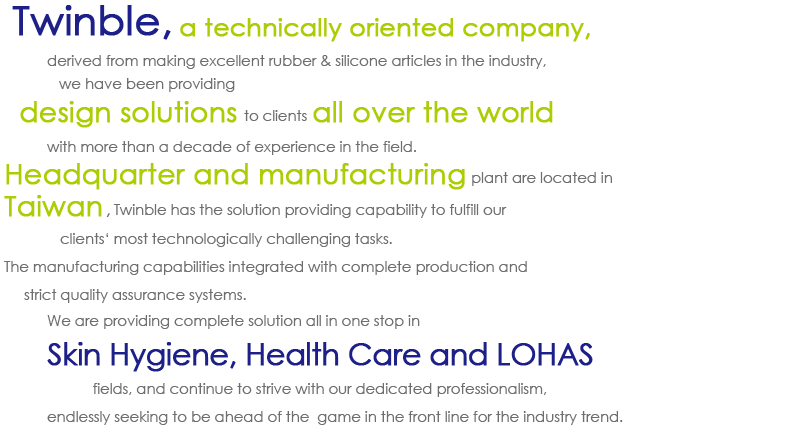
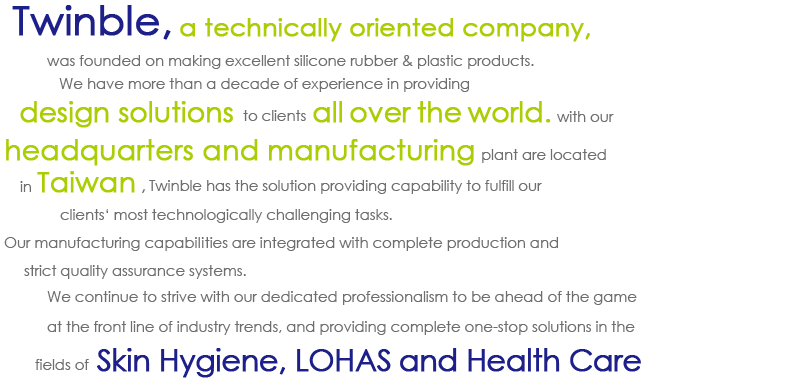
"about-us"和"why-twinble"頁面文案調整 #20180306

diff --git a/about-us.html b/about-us.html
@@ -2,6 +2,7 @@
 <html>
 <head>
 <meta charset="utf-8" lang="en">
+<meta http-equiv="Expires" content="-1">
 <!--<meta name="viewport" content="width=device-width, height=device-height, initial-scale=1.0, user-scalable=0, minimum-scale=1.0, maximum-scale=1.0">-->
 <meta name="description" content="Twinble, a technically oriented company, derived from making excellent & innovative rubber articles in the industry"/>
 <meta name="keywords" content="twinble,rubber,taiwan,skin,hygiene,health,rubber compression,injection molding, liquid injection"/>
@@ -107,9 +108,9 @@ j=d.createElement(s),dl=l!='dataLayer'?'&l='+l:'';j.async=true;j.src=
                     <br class="clean">
                     <div class="pic_about"></div>
                     <div class="text_about">
-                        <p><span class="profile-blue">Twinble</span>, <span class="profile-green">a technically oriented company</span>,  derived from making excellent rubber &amp; silicone articles in the industry, been providing <span class="profile-green">design solutions to clients all over the world</span> with more than a decade of experience in the field.</p>
-                        <p><span class="profile-green">Headquarter and manufacturing plant are located in Taiwan</span>, winble has the solution providing capability to fulfill our clients‘ most technologically challenging tasks. The manufacturing capabilities integrated with complete production and strict quality assurance systems.</p>
-                        <p>We are providing complete solution all in one stop in <span class="profile-blue">Skin Hygiene, Health Care and LOHAS</span> fields. We continue to strive with our dedicated professionalism, endlessly seeking to be ahead of the game in the front line for the industry trend.</p>
+                        <p><em>Twinble</em>, <em>a technically oriented company</em>,  was founded on making excellent silicone rubber &amp; plastic products. We have more than a decade of experience in providing <em>design solutions </em>to clients <em>all over the world.</em></p>
+                        <p>With our <em>headquarters and manufacturing</em> plant located in <em>Taiwan</em>, Twinble has the solution providing capability to fulfill our clients' most technologically challenging tasks. Our manufacturing capabilities are integrated with complete production and strict quality assurance systems. </p>
+                        <p>We continue to strive with our dedicated professionalism to be ahead of the game at the front line of industry trends, and providing complete one-stop solutions in the fields of <em>Skin Hygiene</em>, <em>LOHAS</em> and <em>Health Care.</em></p>
                     </div>
                     <img class="my-twinble" src="images/pic_twinble.png" alt="twinvle-man">
                 </section>

diff --git a/why-twinble.html b/why-twinble.html
@@ -104,9 +104,10 @@ j=d.createElement(s),dl=l!='dataLayer'?'&l='+l:'';j.async=true;j.src=
                     <br class="clean">
                     <div class="pic_whytwinble"></div>
                     <div class="text_about">
-                        <p>Customer satisfaction and fulfillment of their technological needs are achieved through series of interactions by our expertise on <span class="profile-blue">joint development</span> program. </p>
-                        <p><span class="profile-blue">All products 100% made in Taiwan</span>, the stable quality is controlled by the complete manufacturing solution in house.</p>
-                        <p>No matter what rubber <span class="profile-blue">compression and injection molding, liquid injection</span> s available for high precision silicone products in our technical portfolio. We are able to provide <span class="profile-blue">assembly service </span>to <span class="profile-green">add value the product performance</span> as well. Our designs evolve with innovations to continuously improve and create products value that the market yearns for.</p>
+                        <p>Customer satisfaction and fulfillment of technological needs are achieved through a series of interactions with our experts on <em>joint development</em> programs.</p>
+                        <p><em>All products are 100% made in Taiwan</em>, and consistent quality is controlled by the complete manufacturing solution in-house.</p>
+                        <p>No matter what type of rubber <em>compression</em> is desired, <em>injection molding</em> and <em>liquid injections</em> are available for high precision silicone rubber products in our technical portfolio.</p>
+                        <p>We are able to provide <em>assembly service</em> <em>to enhance the value of the products</em> as well. Our designs evolve with innovations to continuously improve and create products with value that the market yearns for. </p>    
                     </div>
                     <ul class="capability-item WOW fadeInUp-nodelay">
                         <li>

diff --git a/lohas.html b/lohas.html
@@ -2,8 +2,8 @@
 <html>
 <head>
 <meta charset="utf-8" lang="en">
-<!--<meta name="viewport" content="width=device-width, height=device-height, initial-scale=1.0, user-scalable=0, minimum-scale=1.0, maximum-scale=1.0">-->
 <meta http-equiv="Expires" content="-1">
+<!--<meta name="viewport" content="width=device-width, height=device-height, initial-scale=1.0, user-scalable=0, minimum-scale=1.0, maximum-scale=1.0">-->
 <meta name="description" content="Twinble, a technically oriented company, derived from making excellent & innovative rubber articles in the industry"/>
 <meta name="keywords" content="twinble,rubber,taiwan,skin,hygiene,health,rubber compression,injection molding, liquid injection"/>
 <meta name="Author" content="Twinble International Enterprise corp." />

diff --git a/css/xuedesign_201605.css b/css/xuedesign_201605.css
@@ -411,7 +411,7 @@ header,
 .pic_about{
     display: block;
     width: 100%;
-    height: 439px;
+    height: 391px;/*439px*/
     background: url(../images/pic_who-we-are.png) no-repeat;
     margin-top: 30px}
 .text_about{
@@ -420,7 +420,7 @@ header,
 .pic_whytwinble{
     display: block;
     width: 100%;
-    height: 400px;
+    height: 387px;/*400px*/
     background: url(../images/pic_whytwinble.png) no-repeat;
     background-position: 35px 0;
     margin-top: 30px}
@@ -805,4 +805,4 @@ footer{
     white-space: nowrap;
     overflow: hidden}
 #btn_totop a:hover{ 
-    background:url(../images/btn_totop.png) 0 -33px no-repeat}13
+    background:url(../images/btn_totop.png) 0 -33px no-repeat}13/**/439px391/**/439px1

diff --git a/skin-hygiene.html b/skin-hygiene.html
@@ -2,6 +2,7 @@
 <html>
 <head>
 <meta charset="utf-8" lang="en">
+<meta http-equiv="Expires" content="-1">
 <!--<meta name="viewport" content="width=device-width, height=device-height, initial-scale=1.0, user-scalable=0, minimum-scale=1.0, maximum-scale=1.0">-->
 <meta name="description" content="Twinble, a technically oriented company, derived from making excellent & innovative rubber articles in the industry"/>
 <meta name="keywords" content="twinble,rubber,taiwan,skin,hygiene,disposable soap bag,soap dispenser pump tube,soap bag in box, liquid injection"/>

diff --git a/health-care.html b/health-care.html
@@ -2,6 +2,7 @@
 <html>
 <head>
 <meta charset="utf-8" lang="en">
+<meta http-equiv="Expires" content="-1">
 <!--<meta name="viewport" content="width=device-width, height=device-height, initial-scale=1.0, user-scalable=0, minimum-scale=1.0, maximum-scale=1.0">-->
 <meta name="description" content="Twinble, a technically oriented company, derived from making excellent & innovative rubber articles in the industry"/>
 <meta name="keywords" content="twinble,rubber,taiwan,skin,hygiene,health,rubber compression,injection molding, liquid injection"/>
